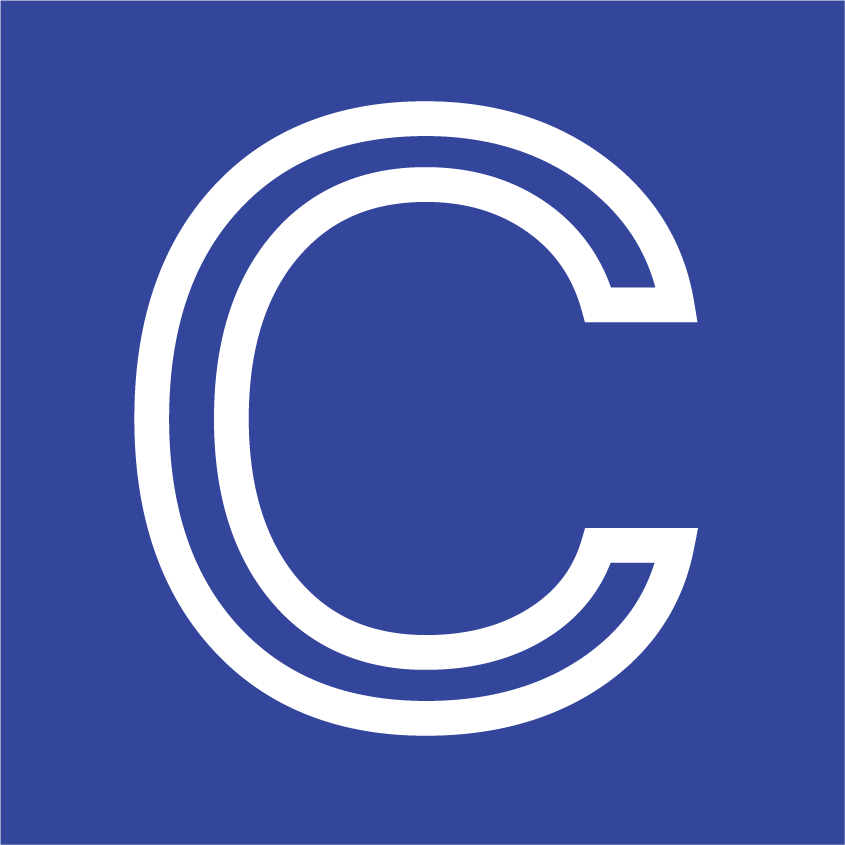
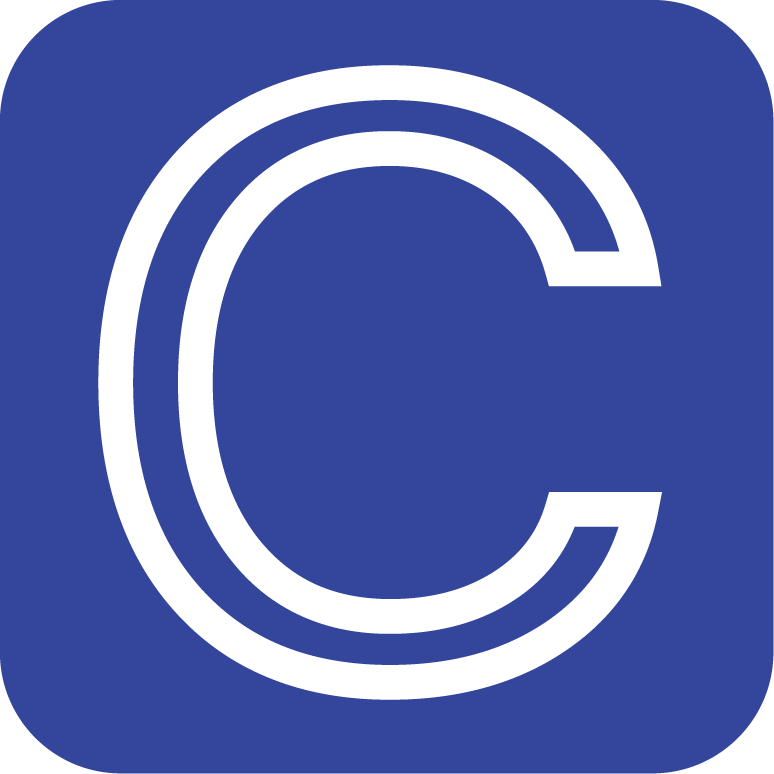
final before branch n push

Changed region(s): [[0.124, 0.062, 0.8682, 0.9302], [0.0, 0.0, 1.0, 1.0], [0.0, 0.0, 0.124, 0.124]]

diff --git a/public/index.html b/public/index.html
@@ -1,1 +1,1 @@
-<!DOCTYPE html><html><head><meta charSet="utf-8"/><meta http-equiv="x-ua-compatible" content="ie=edge"/><meta name="viewport" content="width=device-width, initial-scale=1, shrink-to-fit=no"/><title data-react-helmet="true"></title><link rel="shortcut icon" href="/icons/icon-48x48.png?v=35b14919e46e8e181cb36d6d4fa723e7"/><link rel="manifest" href="/manifest.webmanifest"/><meta name="theme-color" content="#663399"/><link rel="apple-touch-icon" sizes="48x48" href="/icons/icon-48x48.png?v=35b14919e46e8e181cb36d6d4fa723e7"/><link rel="apple-touch-icon" sizes="72x72" href="/icons/icon-72x72.png?v=35b14919e46e8e181cb36d6d4fa723e7"/><link rel="apple-touch-icon" sizes="96x96" href="/icons/icon-96x96.png?v=35b14919e46e8e181cb36d6d4fa723e7"/><link rel="apple-touch-icon" sizes="144x144" href="/icons/icon-144x144.png?v=35b14919e46e8e181cb36d6d4fa723e7"/><link rel="apple-touch-icon" sizes="192x192" href="/icons/icon-192x192.png?v=35b14919e46e8e181cb36d6d4fa723e7"/><link rel="apple-touch-icon" sizes="256x256" href="/icons/icon-256x256.png?v=35b14919e46e8e181cb36d6d4fa723e7"/><link rel="apple-touch-icon" sizes="384x384" href="/icons/icon-384x384.png?v=35b14919e46e8e181cb36d6d4fa723e7"/><link rel="apple-touch-icon" sizes="512x512" href="/icons/icon-512x512.png?v=35b14919e46e8e181cb36d6d4fa723e7"/><script src="/socket.io/socket.io.js"></script></head><body><noscript id="gatsby-noscript">This app works best with JavaScript enabled.</noscript><div id="___gatsby"></div><script src="/commons.js"></script></body></html>
+<!DOCTYPE html><html><head><meta charSet="utf-8"/><meta http-equiv="x-ua-compatible" content="ie=edge"/><meta name="viewport" content="width=device-width, initial-scale=1, shrink-to-fit=no"/><title data-react-helmet="true"></title><link rel="shortcut icon" href="/icons/icon-48x48.png?v=09d0b439ad9cac19bc8a61f6a6705aac"/><link rel="manifest" href="/manifest.webmanifest"/><meta name="theme-color" content="#663399"/><link rel="apple-touch-icon" sizes="48x48" href="/icons/icon-48x48.png?v=09d0b439ad9cac19bc8a61f6a6705aac"/><link rel="apple-touch-icon" sizes="72x72" href="/icons/icon-72x72.png?v=09d0b439ad9cac19bc8a61f6a6705aac"/><link rel="apple-touch-icon" sizes="96x96" href="/icons/icon-96x96.png?v=09d0b439ad9cac19bc8a61f6a6705aac"/><link rel="apple-touch-icon" sizes="144x144" href="/icons/icon-144x144.png?v=09d0b439ad9cac19bc8a61f6a6705aac"/><link rel="apple-touch-icon" sizes="192x192" href="/icons/icon-192x192.png?v=09d0b439ad9cac19bc8a61f6a6705aac"/><link rel="apple-touch-icon" sizes="256x256" href="/icons/icon-256x256.png?v=09d0b439ad9cac19bc8a61f6a6705aac"/><link rel="apple-touch-icon" sizes="384x384" href="/icons/icon-384x384.png?v=09d0b439ad9cac19bc8a61f6a6705aac"/><link rel="apple-touch-icon" sizes="512x512" href="/icons/icon-512x512.png?v=09d0b439ad9cac19bc8a61f6a6705aac"/><script src="/socket.io/socket.io.js"></script></head><body><noscript id="gatsby-noscript">This app works best with JavaScript enabled.</noscript><div id="___gatsby"></div><script src="/commons.js"></script></body></html>

diff --git a/src/style/navigation.scss b/src/style/navigation.scss
@@ -44,8 +44,8 @@ nav  {
       }
       .favicon {
         // border:2px solid green;
-        width: 37px;
-        visibility: hidden;
+        width: 50px;
+        // visibility: hidden;
         padding-right: 1rem;
         padding-bottom: 0.5rem;
       }
@@ -112,7 +112,7 @@ nav  {
       }
       .nav-links {
         margin-left: -15em;
-        font-size: 0.8rem;
+        font-size: 1.1rem;
         .link {
         }
       }

diff --git a/src/components/navigation.js b/src/components/navigation.js
@@ -1,7 +1,7 @@
 import React, { Component } from 'react';
 import { Link } from "gatsby"
 import PropTypes from "prop-types"
-import mac from '../images/icon-mac.png'
+import icon from '../images/icon.png'
 
 
 class Navigation extends Component {
@@ -53,3 +53,5 @@ Navigation.defaultProps = {
 }
 
 export default Navigation
+
+// <img src={icon} className="favicon" alt="icon"/>
